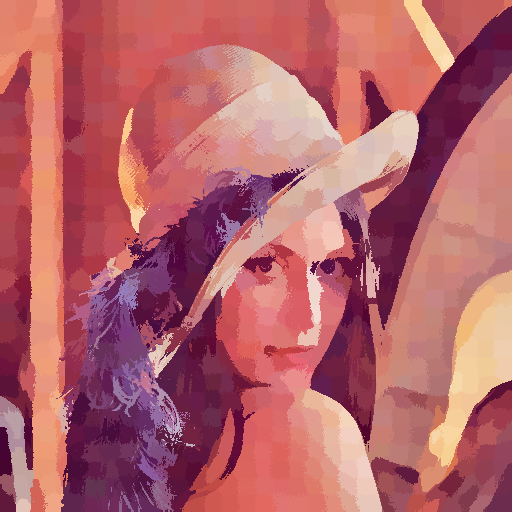
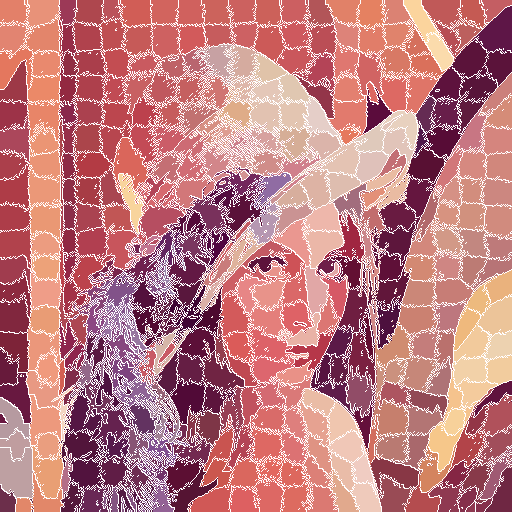
SLIC.

diff --git a/gradient_ascent_based/SLIC.py b/gradient_ascent_based/SLIC.py
@@ -45,6 +45,7 @@ class SLIC():
         self.clusters = []
         self.clusterNumber = 0
         self.iterNumber = iterNumber
+        self.boundary = color.rgb2lab(np.zeros(self.image.shape))
 
     def run(self):
         self.__clusterInit()
@@ -52,7 +53,8 @@ class SLIC():
         for i in range(self.iterNumber):
             self.__labelChoose()
             self.__clusterUpdate()
-        self.__enforceConnect()
+        self.__connect()
+        self.__enforceConnect2()
         self.__imageSplit()
 
     def __clusterInit(self):
@@ -78,8 +80,9 @@ class SLIC():
         def gradientCalculate(self, x, y):
             gradient = 0
             for i in range(3):
-                gradient = self.image[x][y + 1][i] - self.image[x][y - 1][i] + self.image[x + 1][y][i] - \
-                           self.image[x - 1][y][i]
+                gradient += math.fabs(self.image[x][y + 1][i] - self.image[x][y - 1][i]) + math.fabs(
+                    self.image[x + 1][y][i] - self.image[x - 1][y][i])
+
             return gradient / 2
 
         print("Moving...")
@@ -163,6 +166,73 @@ class SLIC():
                         stop = 0
             if stop: break
 
+    def __connect(self):
+        label = self.label
+        height, width = self.height, self.width
+
+        cnt = 0
+        vis = np.zeros(label.shape)
+        dx = [-1, 1, 0, 0]
+        dy = [0, 0, 1, -1]
+
+        for i in range(height):
+            for j in range(width):
+                if not vis[i][j]:
+                    cnt += 1
+                    Q = [(i, j)]
+                    while len(Q):
+                        x, y = Q.pop(0)
+                        vis[x][y] = cnt
+                        for k in range(4):
+                            xx = x + dx[k]
+                            yy = y + dy[k]
+                            if 0 <= xx and xx < width and 0 <= yy and yy < height  and vis[xx][yy] != cnt:
+                                vis[xx][yy] = cnt
+                                Q.append((xx, yy))
+        self.label = vis
+
+    def __enforceConnect2(self):
+        N = self.clusterNumber + 1
+        label = self.label
+        threshold = self.superPixelLength ** 2 / 4
+
+        count = np.zeros(N)
+        height, width = self.height, self.width
+        for i in range(height):
+            for j in range(width):
+                count[label[i][j]] += 1
+        p = np.arange(N)
+
+        def find(x):
+            if p[x] == x:
+                return x
+            else:
+                p[x] = find(p[x])
+                return p[x]
+
+        def union(i, j):
+            x = find(i)
+            y = find(j)
+            if x != y:
+                p[x] = y
+                count[x] += count[y]
+                print(x,y)
+
+        for i in range(height - 1):
+            for j in range(width - 1):
+                x = find(label[i][j])
+                if count[x] < threshold:
+                    y = find(label[i][j + 1])
+                    z = find(label[i + 1][j])
+                    if x != y:
+                        union(x, y)
+                    elif x != z:
+                        union(x, z)
+        for i in range(height):
+            for j in range(width):
+                label[i][j] = find(label[i][j])
+        self.label = label
+
     def __imageSplit(self):
         """
         - Draw the boundary of super pixels.
@@ -185,10 +255,10 @@ class SLIC():
                 # if not k == self.label[i][right] == self.label[down][j]:
                 #     self.image[i][j] = np.asarray([100, 0, 0])
                 #     continue
-                # if (k != self.label[i][right] and k == self.image[i][left][0] != 100) or (
-                #         k != self.label[down][j] and self.image[up][j][0] != 100):
-                #     self.image[i][j] = np.asarray([100, 0, 0])
-                #     continue
+                if (k != self.label[i][right] and self.image[i][left][0] != 100) or (
+                        k != self.label[down][j] and self.image[up][j][0] != 100):
+                    self.image[i][j] = np.asarray([100, 0, 0])
+                    continue
                 cluster = self.clusters[k - 1]
                 self.image[i][j] = np.asarray([cluster.l, cluster.a, cluster.b])
 
@@ -196,9 +266,14 @@ class SLIC():
         newImage = (color.lab2rgb(self.image) * 255).astype(np.uint8)
         io.imsave(filename, newImage)
 
+    def boundarySave(self, filename):
+        newImage = (color.lab2rgb(self.boundary) * 255).astype(np.uint8)
+        io.imsave(filename, newImage)
+
 
 if __name__ == "__main__":
     image = imageLoad()
-    slic = SLIC(image, k=900, iterNumber=5)
+    slic = SLIC(image, k=400, iterNumber=5)
     slic.run()
-    slic.imageSave("../result/lena_SLIC.png")
+    slic.imageSave("../result/cloth_SLIC.png")
+    # slic.boundarySave("../result/cloth_SLIC_boundary.png")

diff --git a/gradient_ascent_based/test.py b/gradient_ascent_based/test.py
@@ -1,9 +1,11 @@
-from skimage.segmentation import slic
-from skimage.segmentation import mark_boundaries
-from skimage import io
-import matplotlib.pyplot as plt
+from skimage import io, morphology, filters
+from matplotlib import pyplot as plt
 
-image = io.imread(r"../image/lena.png")
-segments = slic(image, n_segments=900, max_iter=5, enforce_connectivity=True)
-plt.imshow(mark_boundaries(image, segments, color=(0, 0, 0)))
+image = io.imread("../result/lena_SLIC_boundary.png", as_gray=True)
+image = morphology.dilation(image)
+io.imshow(image)
+plt.show()
+
+image  = morphology.erosion(image)
+io.imshow(image)
 plt.show()

diff --git a/tool/imageTool.py b/tool/imageTool.py
@@ -1,9 +1,9 @@
 import numpy as np
-from skimage import io, color, util
+from skimage import io, color, util, morphology
 
 
 def imageLoad():
-    image = io.imread(r"../image/lena.png")
+    image = io.imread(r"../image/cloth.jpg")
     image = color.rgb2lab(image)
     return image
 

diff --git a/gradient_ascent_based/README.md b/gradient_ascent_based/README.md
@@ -1,1 +1,159 @@
-# 
+- Attention please: 
+
+- **If you want to reprint my article, please mark the original address and author(刘书裴).**
+
+- **If you are puzzled about a certain part or have some better suggestions, you can contact me: [3017218062@tju.edu.cn]()/[1005968086@qq.com]()**
+
+- **If my blog has mistakes, I'm so sorry!**
+
+- **I think and write everything. Please don't copy.**
+
+- **Thanks for watching!**
+
+| item | tool |
+| :---: | :---: |
+| image | mspaint |
+| formula | Online LaTeX Equation Editor |
+| language | python3.7 |
+| date | 2020.1.3 |
+| author | 刘书裴 |
+| members | 刘坤鑫、郭炳成 |
+
+# Directory
+
+1. [SLIC](#1)
+    1. [Algorithm](#1.1)
+        1. [RGB to LAB](#1.1.1)
+        2. [Initialize cluster centers](#1.1.2)
+        3. [Iterative clustering](#1.1.3)
+    2. [Attention](#1.2)
+        1. [Why we change rgb to lab?](#1.2.1)
+        2. [Why we choose the 2Sx2S region?](#1.2.2)
+    3. [Optimization](#1.3)
+        1. [Choose the gradient](#1.3.1)
+        2. [Merge all small blocks](#1.3.2)
+        3. [Draw the boundary](#1.3.3)
+    4. [Result](#1.4)
+    
+Original image:
+
+![](../image/lena.png)
+
+# SLIC
+<a id="1"/>
+
+## Algorithm
+<a id="1.1"/>
+
+### RGB to LAB
+<a id="1.1.1"/>
+
+Formula:
+
+![](../resource/gradient_ascent_based/SLIC/rgb2lab1.gif)
+
+![](../resource/gradient_ascent_based/SLIC/L.gif)
+
+![](../resource/gradient_ascent_based/SLIC/a.gif)
+
+![](../resource/gradient_ascent_based/SLIC/b.gif)
+
+However, we can use skimage.color.rgb2lab() to achieve it.
+
+### Initialize cluster centers
+<a id="1.1.2"/>
+
+- At first, we set [K](), the number of clusters or super pixels.
+
+- Then divide the image into K super pixel blocks according to equal size.
+
+    ![](../resource/gradient_ascent_based/SLIC/S.gif)
+
+- Initialize the block centers. And use [Cluster]() array to save them.
+
+    ![](../resource/gradient_ascent_based/SLIC/initial.png)
+
+- we need two arrays, [Distance]() and [Label](), to save the distance between current point and the nearest center and the label of the nearest center.
+
+### Iterative clustering
+<a id="1.1.3"/>
+
+For each iteration, we choose 2Sx2S region for every point or every center:
+
+- Calculate the Distance array.(the distance between every point and its nearest center)
+
+    ![](../resource/gradient_ascent_based/SLIC/dc.gif)
+
+    ![](../resource/gradient_ascent_based/SLIC/ds.gif)
+
+    ![](../resource/gradient_ascent_based/SLIC/d.gif)
+    
+    - m(Nc) is the possible maximum color distance in lab space, and set m=10.
+    
+    - s(Ns) is the possible maximum spatial distance in lab space, and set s=superPixelLength.
+
+- Choose the Label array.(the label of every point's nearest center)
+
+- Update the Cluster array.(use all point of every cluster to calculate geometric centers)
+
+## Attention
+<a id="1.2"/>
+
+### Why we change rgb to lab?
+<a id="1.2.1"/>
+
+- It is not only a device independent color model, but also a color model based on physiological characteristics. LAB color model consists of three elements, one is brightness (L), and A and B are two color channels. A includes colors from dark green (low brightness value) to gray (medium brightness value) to bright pink (high brightness value); B is from bright blue (low brightness value) to gray (medium brightness value) to yellow (high brightness value). Therefore, this kind of color will produce bright colors after mixing, and lab mode defines the most colors.
+
+- The segmentation effect of LAB space is much better than that of RGB space.
+
+### Why we choose the 2Sx2S region?
+<a id="1.2.2"/>
+
+- Reduce super pixel search area.
+
+- The complexity of SLIC is independent of the number of super pixels.
+
+## Optimization
+<a id="1.3"/>
+
+### Choose the gradient
+<a id="1.3.1"/>
+
+It can avoid locating the super pixel on the edge and reduce the chance of replacing the super pixel with noise.
+
+In the 3x3 domain of every center:
+
+- Calculate gradient of 8 neighbors.
+
+    ![](../resource/gradient_ascent_based/SLIC/dx.gif)
+    
+    ![](../resource/gradient_ascent_based/SLIC/dy.gif)
+    
+    ![](../resource/gradient_ascent_based/SLIC/g.gif)
+
+- Choose the point with the smallest gradient as the center node of the new center.
+
+### Merge all small blocks
+<a id="1.3.2"/>
+
+Because of the characteristics of clustering process, it is not guaranteed that every class can be continuous in XY space.
+
+
+
+Thus 
+
+- Count the Label array.
+
+- Initialize the threshold.
+
+- Merge small block into right block.
+
+### Draw the boundary
+<a id="1.3.3"/>
+
+Obviously, 
+
+## Result
+<a id="1.4"/>
+
+![](../result/lena_SLIC.png)
